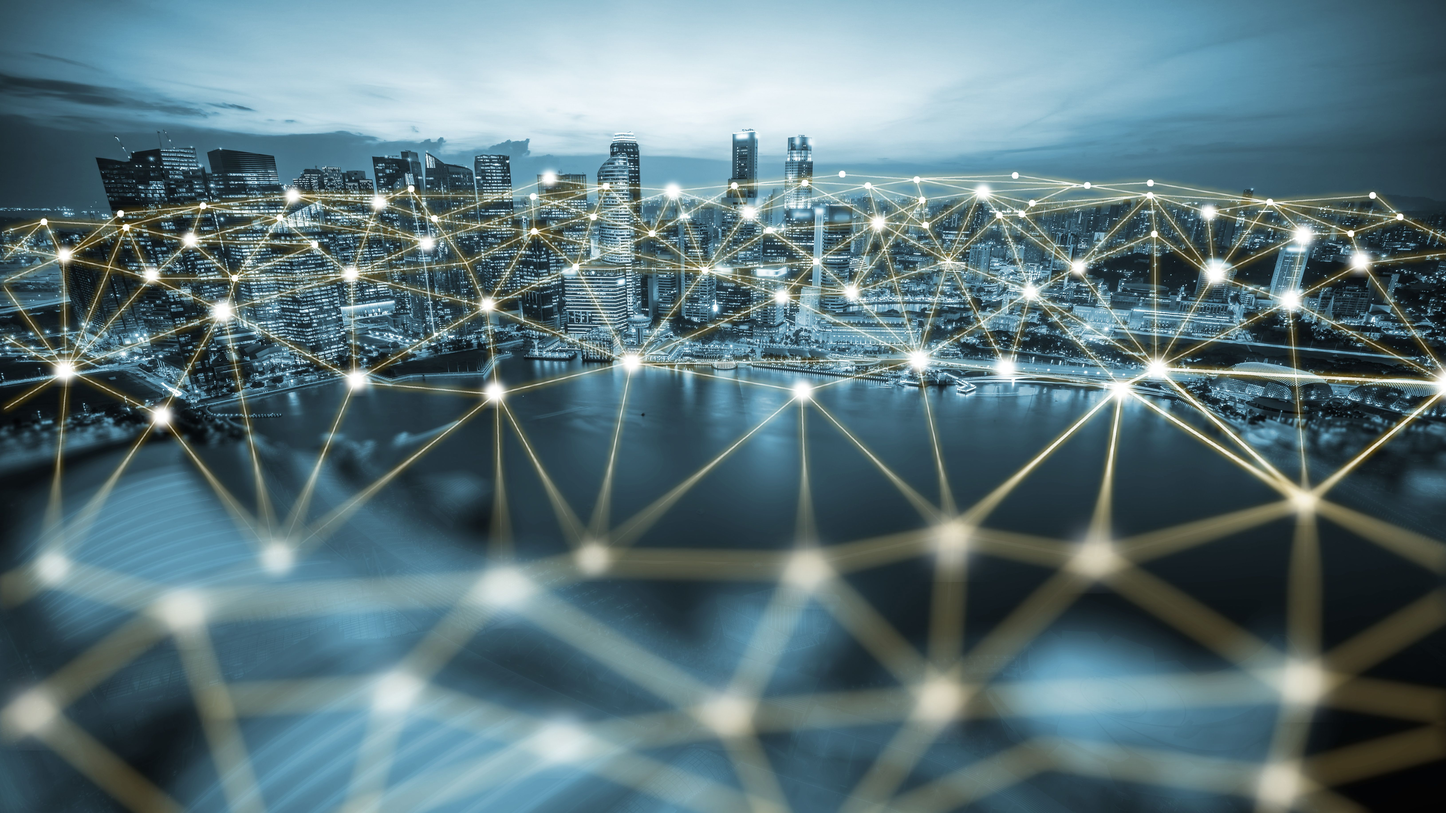
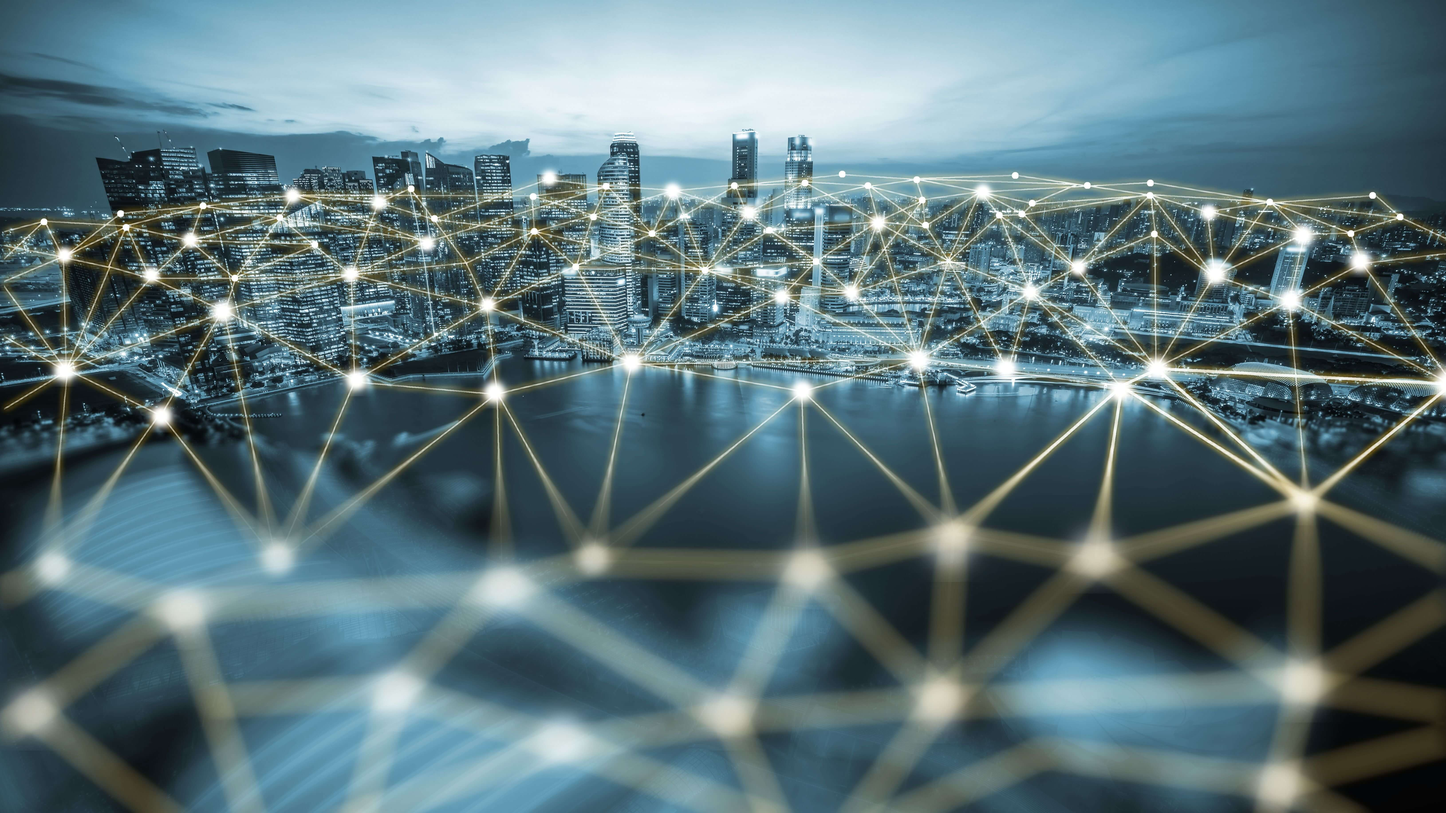
compressed pictures  that were bigger than around 1MB  also made changes to contact form on contact.html

diff --git a/contact.html b/contact.html
@@ -176,7 +176,7 @@ href="https://cdnjs.cloudflare.com/ajax/libs/font-awesome/6.4.0/css/all.min.css"
 					<div class="col-sm-12 col-lg-6">
 						<div class="right">
 						<i class="fa fa-caret-left"></i>
-							<form action="https://formsubmit.co/el/kenigo" method="POST">
+							<form action="https://formspree.io/f/moqovrry" method="POST">
 								<input type="hidden" name="_next" value="https://patriotsforlife.github.io/Bootstrap-Technovine/thank-you.html">
 								<input type="hidden" name="_subject" value="New Contact Form Inquiry!">
 								<!-- <input type="hidden" name="_captcha" value="false"> -->
